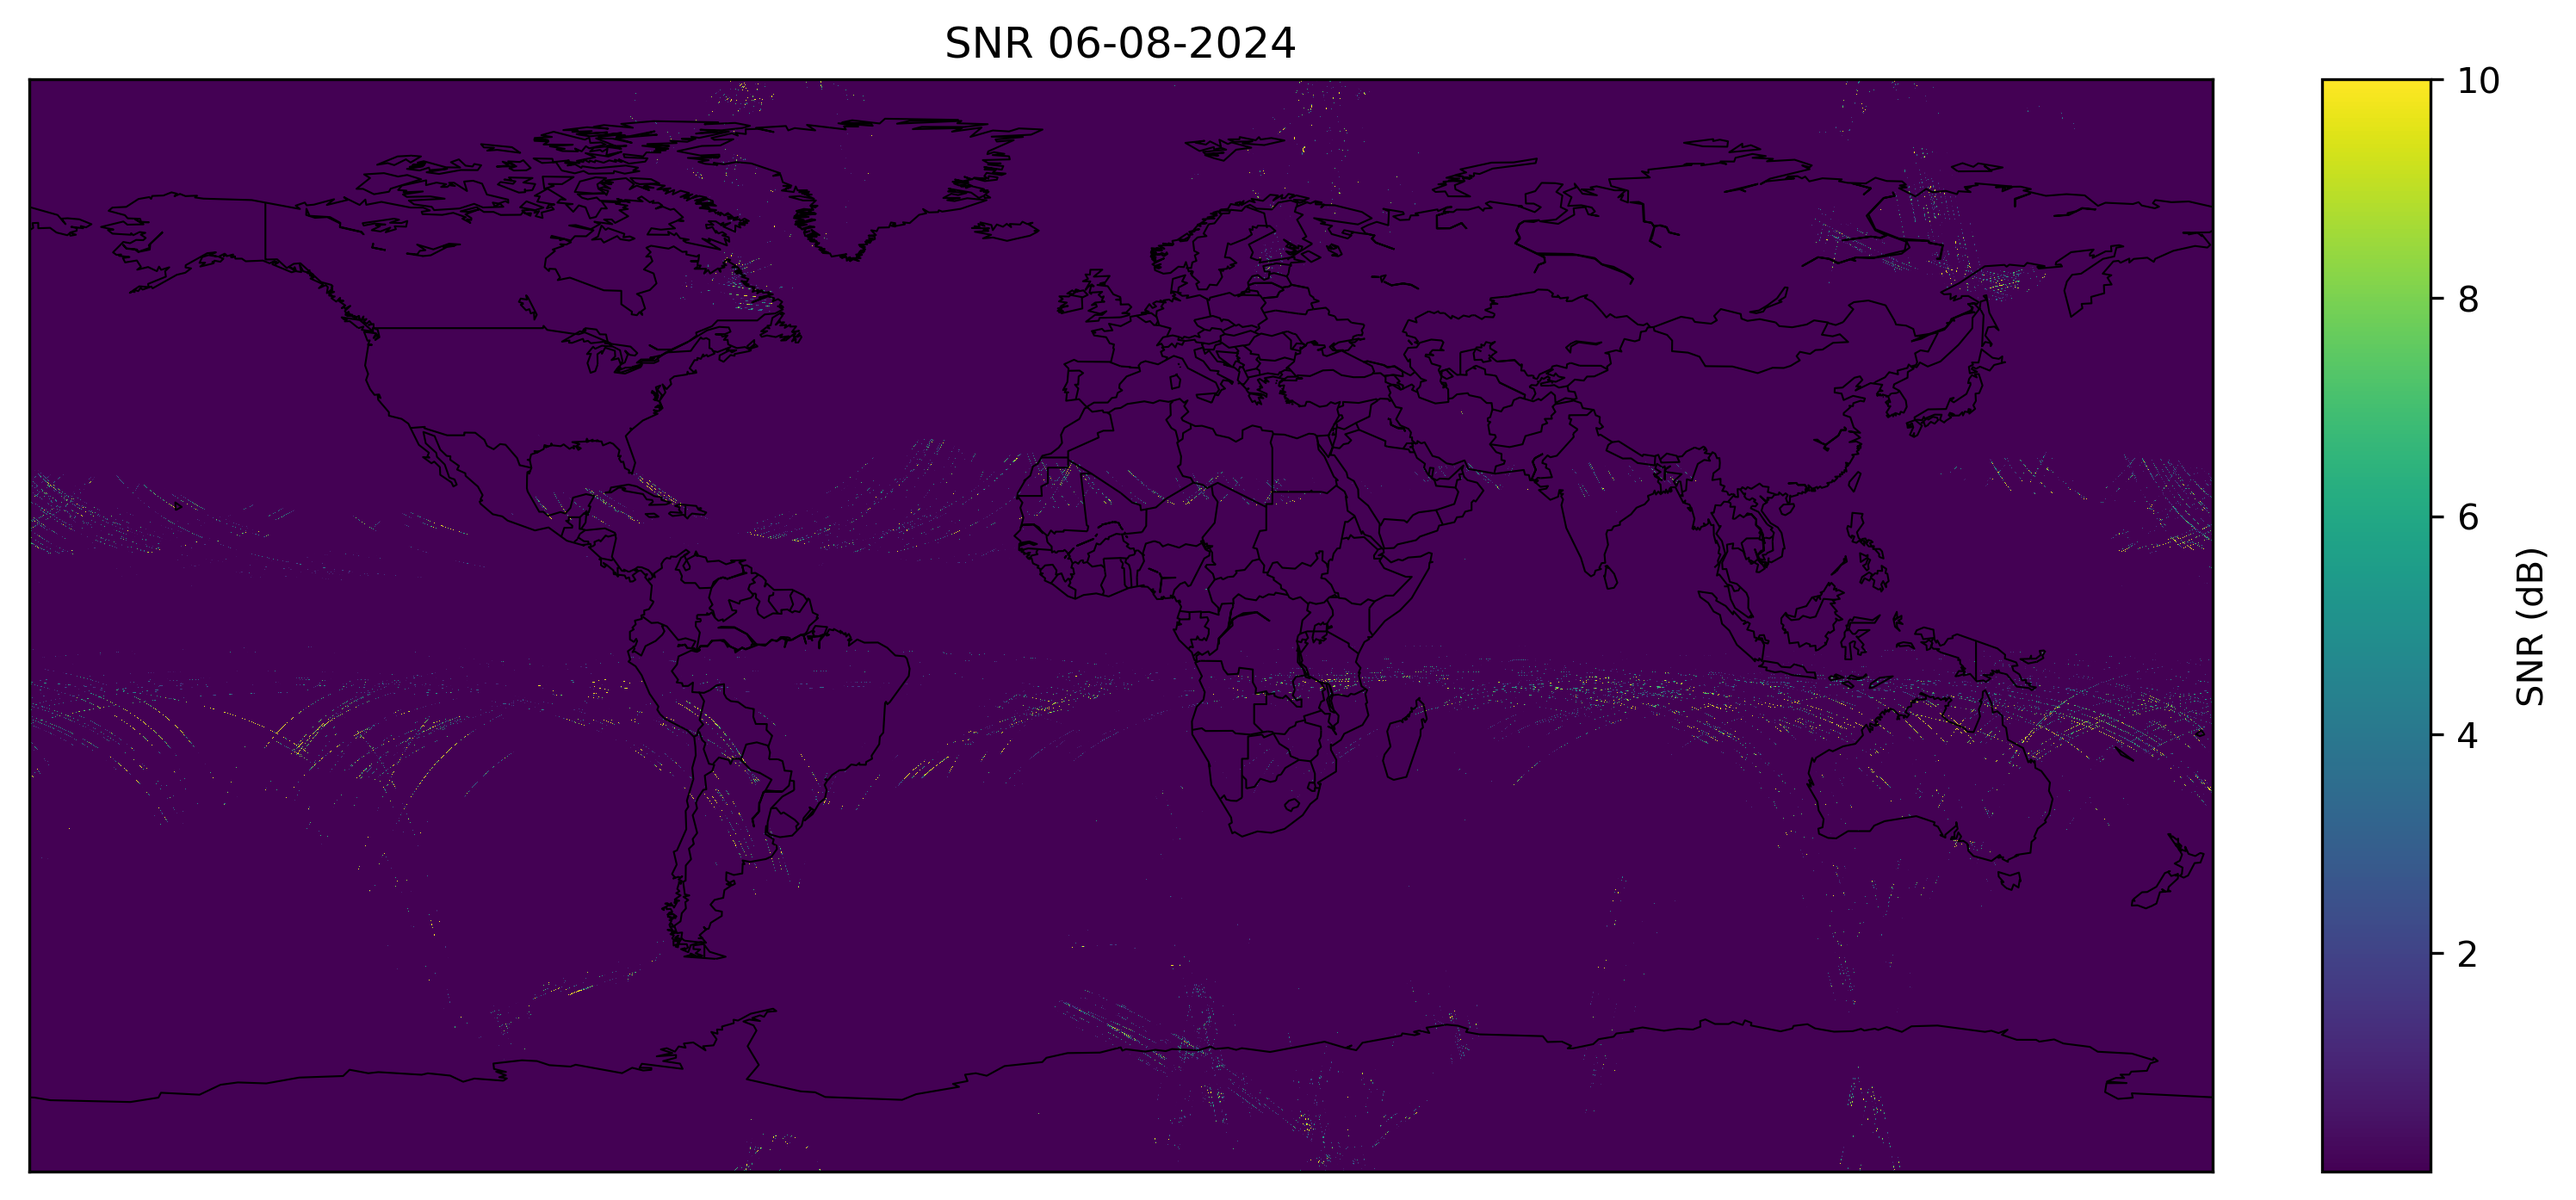
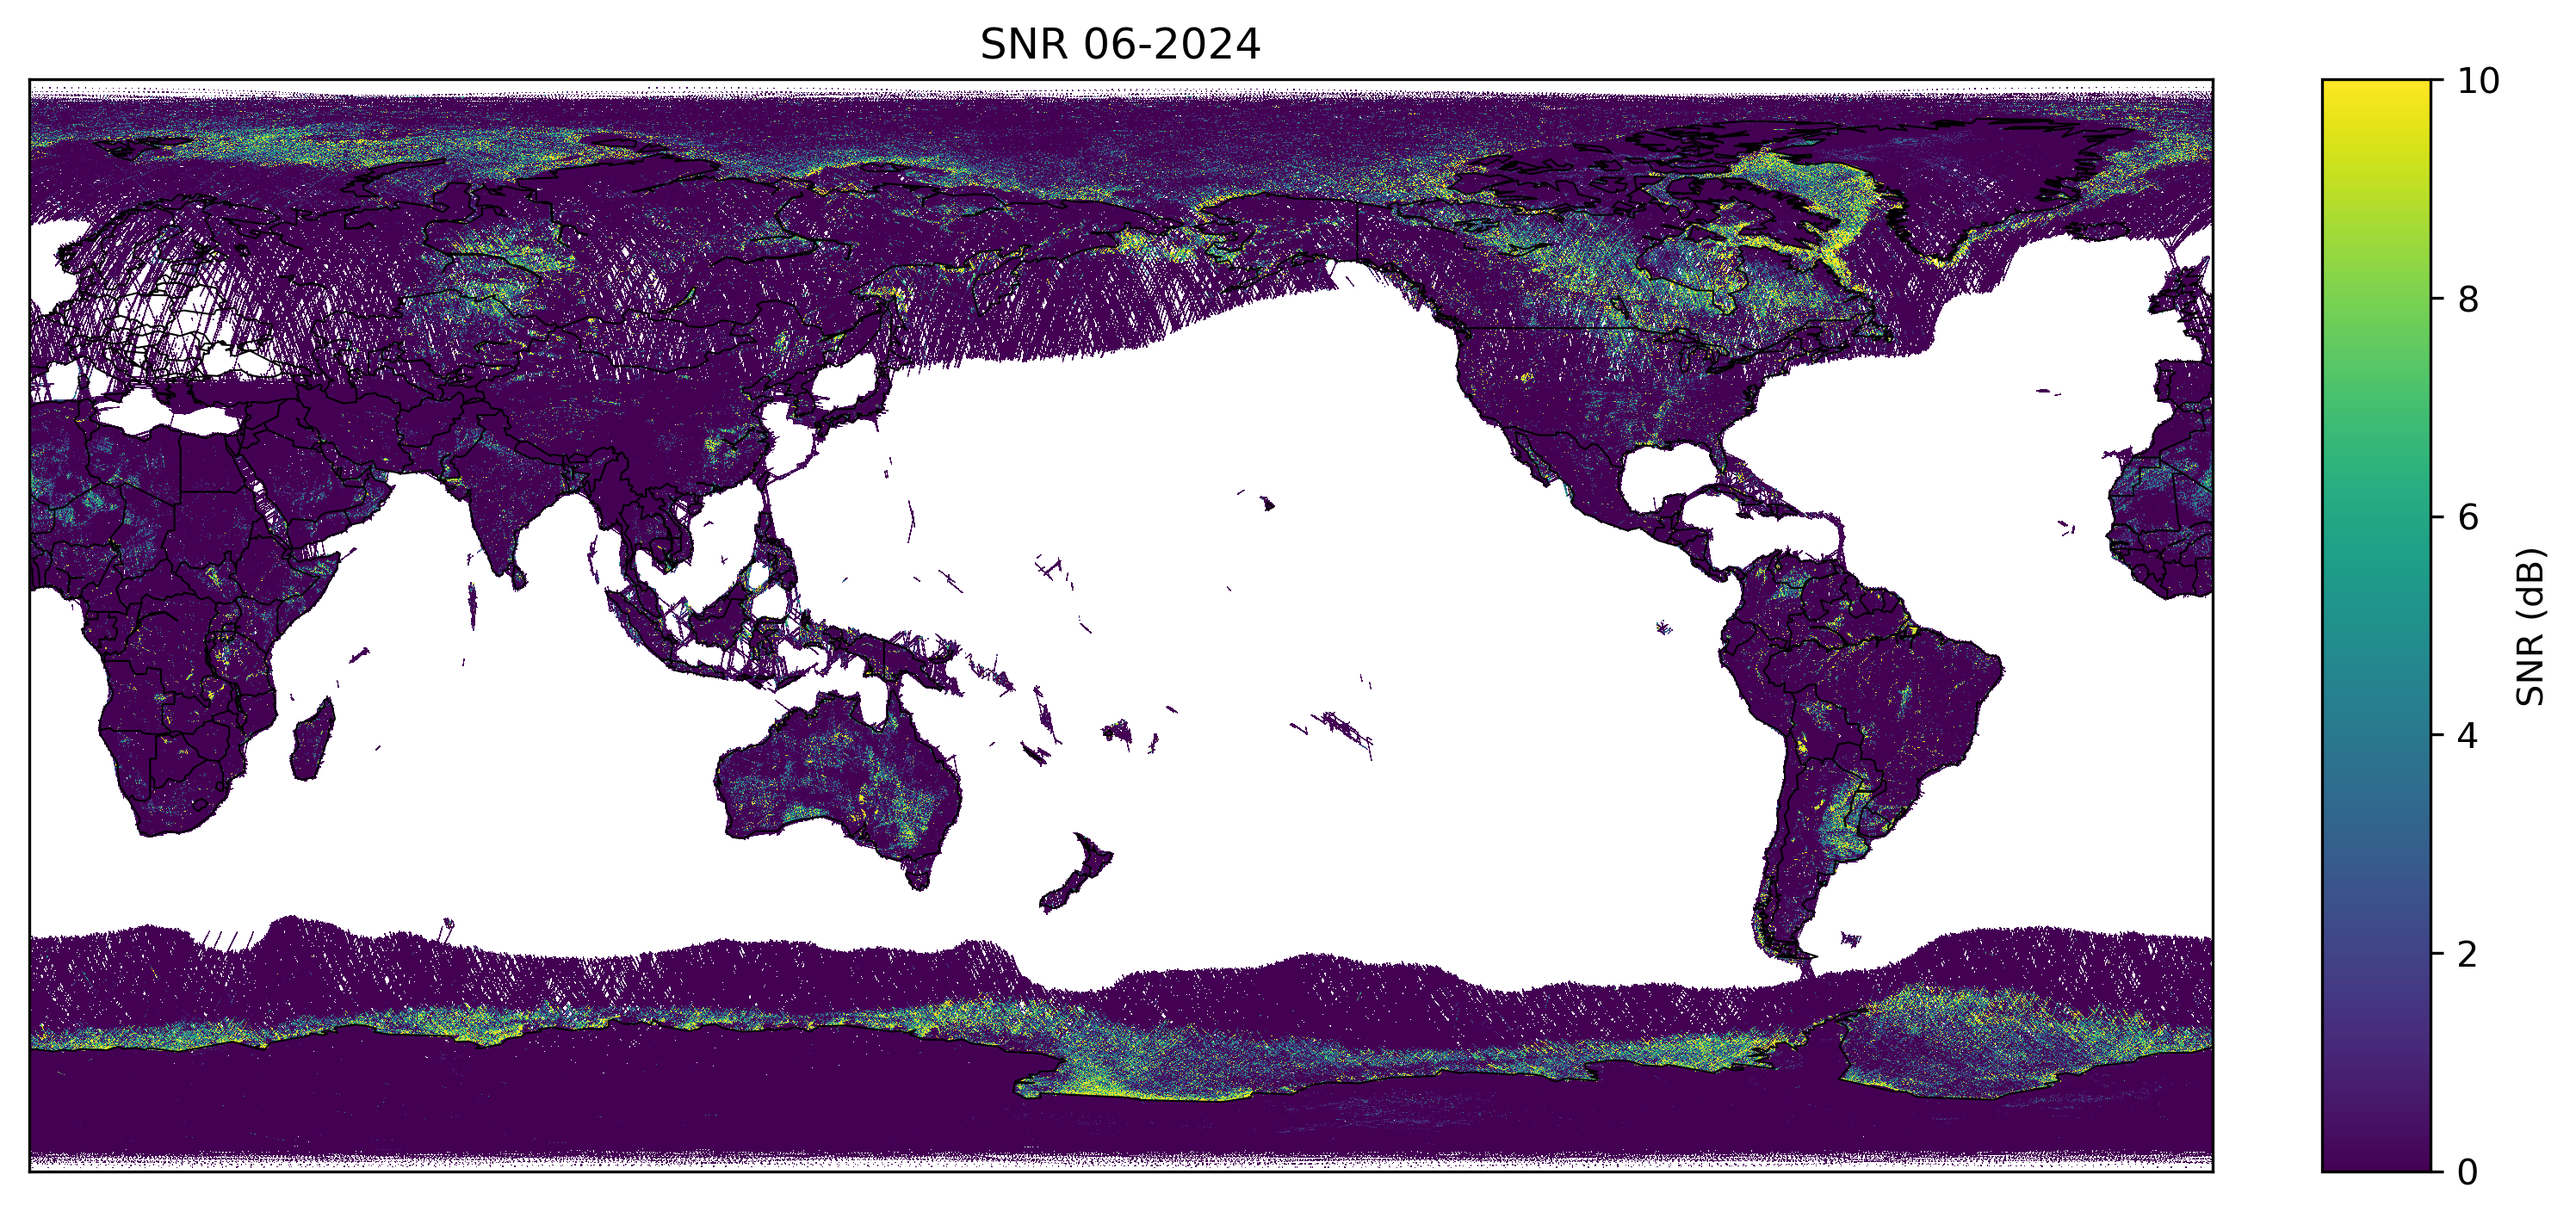
better make_grid.py logic and comments

diff --git a/make_grid.py b/make_grid.py
@@ -1,64 +1,72 @@
 import netCDF4, os, glob, pickle
+from pathlib import Path
 from pprint import pprint
 import numpy as np
 
-# Task: make a SNR and Reflectivity grid at 5km resolution (7200 in longitude and 3600 in latitude)
-# conversions between lon/x and lat/y (assuming we need to convert): 
-# # lon = (x * 0.05) - 180 
-# # lat = (y * 0.05) - 90
-# # x = (lon + 180) / 0.05 
-# # y = (lat + 90) / 0.05
+# Task: make SNR and Reflectivity grids at 5km resolution (7200 in longitude and 3600 in latitude)
 
-# initializing grid
-snr_grid = np.zeros((3600, 7200))
-reflectivity_grid = np.zeros((3600, 7200))
+# reads a given NetCDF4 file and updates the SNR and Reflectivity grid arguments with the values
+def read_file(file, grid_snr, grid_reflectivity):
+    nc_file = netCDF4.Dataset(file, "r", format="NETCDF4")
 
-max_lon = 45
-min_lon = 45
-max_lat = 45
-min_lat = 45
-
-def read_file(file_path, snr_grid, reflectivity_grid):
-    global max_lon, min_lon, max_lat, min_lat
-    nc_file = netCDF4.Dataset(file_path, "r", format="NETCDF4")
-
-    # reading relevant file variables
+    # variables in 1D arrays; we use the lon and lat values to locate the Reflectivity and SNR values 
     reflectivity = nc_file.variables['reflectivity_at_sp'][:]
     snr = nc_file.variables['reflect_snr_at_sp'][:]
-    lon = nc_file.variables['sp_lon'][:] 
-    lat = nc_file.variables['sp_lat'][:] 
-
-    max_lon = max(max_lon, max(lon)-180)
-    min_lon = min(min_lon, min(lon)-180)
-    max_lat = max(max_lat, max(lat))
-    min_lat = min(min_lat, min(lat))
+    lon = nc_file.variables['sp_lon'][:]
+    lat = nc_file.variables['sp_lat'][:]
 
     for i in range(len(reflectivity)):
-        x = int((lon[i] - 180) / 0.05)
-        y = int(lat[i] / 0.05)
+        # the lon and lat values in the files range from [0, 360] and [-90, 90] respectively
+        # we convert to [0, 360] and [0, 180] first to avoid negatives being interpreted incorrectly as XY
+        # when creating the graph we interpret the coordinates as [-180, 180] and [-90, 90]
+        x = int((lon[i]) / 0.05)
+        y = int((lat[i] + 90) / 0.05)
 
-        print(lon[i]-180, lat[i], snr[i])
+        # the prior conversions allow for 7200 and 3600 coordinates which don't fit into the grid 
+        x = max(min(x, 7199), 0)
+        y = max(min(y, 3599), 0)
 
-        snr_grid[y][x] = snr[i] # y prior to x because python accesses rows before columns
-        reflectivity_grid[y][x] = reflectivity[i]
+        # the data contains masked and NaN values that we want to avoid 
+        if not np.ma.is_masked(snr[i]) and not np.isnan(snr[i]):
+            # y comes before x because python arrays are accessed with rows before cols
+            grid_snr[y][x] = snr[i]
+
+        if not np.ma.is_masked(reflectivity[i]) and not np.isnan(reflectivity[i]):
+            grid_reflectivity[y][x] = reflectivity[i]
 
     nc_file.close()
+    
+    return grid_snr, grid_reflectivity
 
 if __name__ == "__main__":
-    directory = '/data01/jyin/SPIRE/RAW/2024/20240610'
+    # this folder contains all of our data in subfolders for a given date (YYYYMMDD)
+    directory = Path('/data01/jyin/SPIRE/RAW/2024')
+    # the month we want to grab data for
+    month = '202404'
 
-    for root, dirs, files in os.walk(directory):
-        for i, file in enumerate(files):
-            if file.endswith('.nc'):
-                if (i % 100 == 0):
-                    print(f"Reading file {i}")            
-                file_path = os.path.join(root, file)
-                read_file(file_path, snr_grid, reflectivity_grid)    
+    # default values are -9999 so that we can identify unfilled values later easily
+    snr_grid = np.full((3600, 7200), -9999)
+    reflectivity_grid = np.full((3600, 7200), -9999)
 
-    snr_grid = np.nan_to_num(snr_grid)
-    reflectivity_grid = np.nan_to_num(reflectivity_grid)
-    print(max_lon, min_lon, max_lat, min_lat)
-        
+    # walk through every date folder and process anything from given month
+    for i, folder in enumerate(directory.iterdir()):
+        if folder.is_dir():
+            if folder.name.startswith(month):
+                print(f"Processing date: {folder.name}")
+                # each date folder has numerous NetCDF4 files that are to be combined for our final grid
+                for j, file in enumerate(folder.iterdir()):
+                    if file.is_file() and file.suffix == '.nc':        
+                        if (j % 250 == 0):
+                            print(f"- Reading file #{j}")
+                            print(f"- SNR Values above 0: {np.sum(snr_grid > 0)}")  
+
+                        snr_grid, reflectivity_grid = read_file(file, snr_grid, reflectivity_grid)  
+
+    # probably not necessary because we check for non-numeric values in read_file(), but good practice
+    snr_grid = np.nan_to_num(snr_grid, nan=-9999)
+    reflectivity_grid = np.nan_to_num(reflectivity_grid, nan=-9999)
+
+    # pickle files are nice
     with open('/data01/lpu/snr_grid.pkl', 'wb') as f:
         pickle.dump(snr_grid, f)
     with open('/data01/lpu/reflectivity_grid.pkl', 'wb') as f:

diff --git a/visualize_grid.py b/visualize_grid.py
@@ -3,18 +3,26 @@ import matplotlib.pyplot as plt
 from mpl_toolkits.basemap import Basemap
 import pickle
 
+# creates a matplotlib figure for a given grid over an Earth map
 def create_figure(grid, title, label, file_name, isomin, isomax):
     fig, ax = plt.subplots(figsize=(12, 8))
-    m = Basemap(projection='cyl', llcrnrlat=-90, urcrnrlat=90,
-                llcrnrlon=-180, urcrnrlon=180, resolution='c', ax=ax)
 
-    lon_vals = np.linspace(-180, 180, grid.shape[1])
+    # the Basemap library adds a map of the Earth for easy viewing
+    m = Basemap(projection='cyl', llcrnrlat=-90, urcrnrlat=90,
+                llcrnrlon=0, urcrnrlon=360, resolution='c', ax=ax)
+
+    # creates a meshgrid from [0, 360] and [-90, 90] used to translate argument grid to lon and lat values 
+    lon_vals = np.linspace(0, 360, grid.shape[1])
     lat_vals = np.linspace(-90, 90, grid.shape[0])
     lon_grid, lat_grid = np.meshgrid(lon_vals, lat_vals)
 
-    cs = m.pcolormesh(lon_grid, lat_grid, grid, shading='auto', 
+    # remove values that are equal to -9999 (the default value in make_grid.py)
+    masked_grid = np.ma.masked_where(grid == -9999, grid)
+
+    cs = m.pcolormesh(lon_grid, lat_grid, masked_grid, shading='auto', 
                     cmap='viridis', vmin=isomin, vmax=isomax)
 
+    # customization stuff
     m.drawcoastlines(linewidth=0.5)
     m.drawcountries(linewidth=0.5)
 
@@ -35,5 +43,5 @@ if __name__ == "__main__":
     print(f"SNR Min: {np.min(snr_grid)}, Max: {np.max(snr_grid)}")
     print(f"Reflectivity Min: {np.min(reflectivity_grid)}, Max: {np.max(reflectivity_grid)}")
 
-    create_figure(snr_grid, "SNR 06-08-2024", "SNR (dB)", "snr_map.png", 0.00001, 10)
-    create_figure(reflectivity_grid, "Reflectivity 06-08-2024", "Reflectivity (dBZ)", "reflectivity_map.png", 0.00001, 0.01)
+    # create_figure(snr_grid, "SNR 06-2024", "SNR (dB)", "snr_map.png", 0, 10)
+    create_figure(reflectivity_grid, "Reflectivity 06-2024", "Reflectivity (dBZ)", "reflectivity_map.png", -20, 20)
